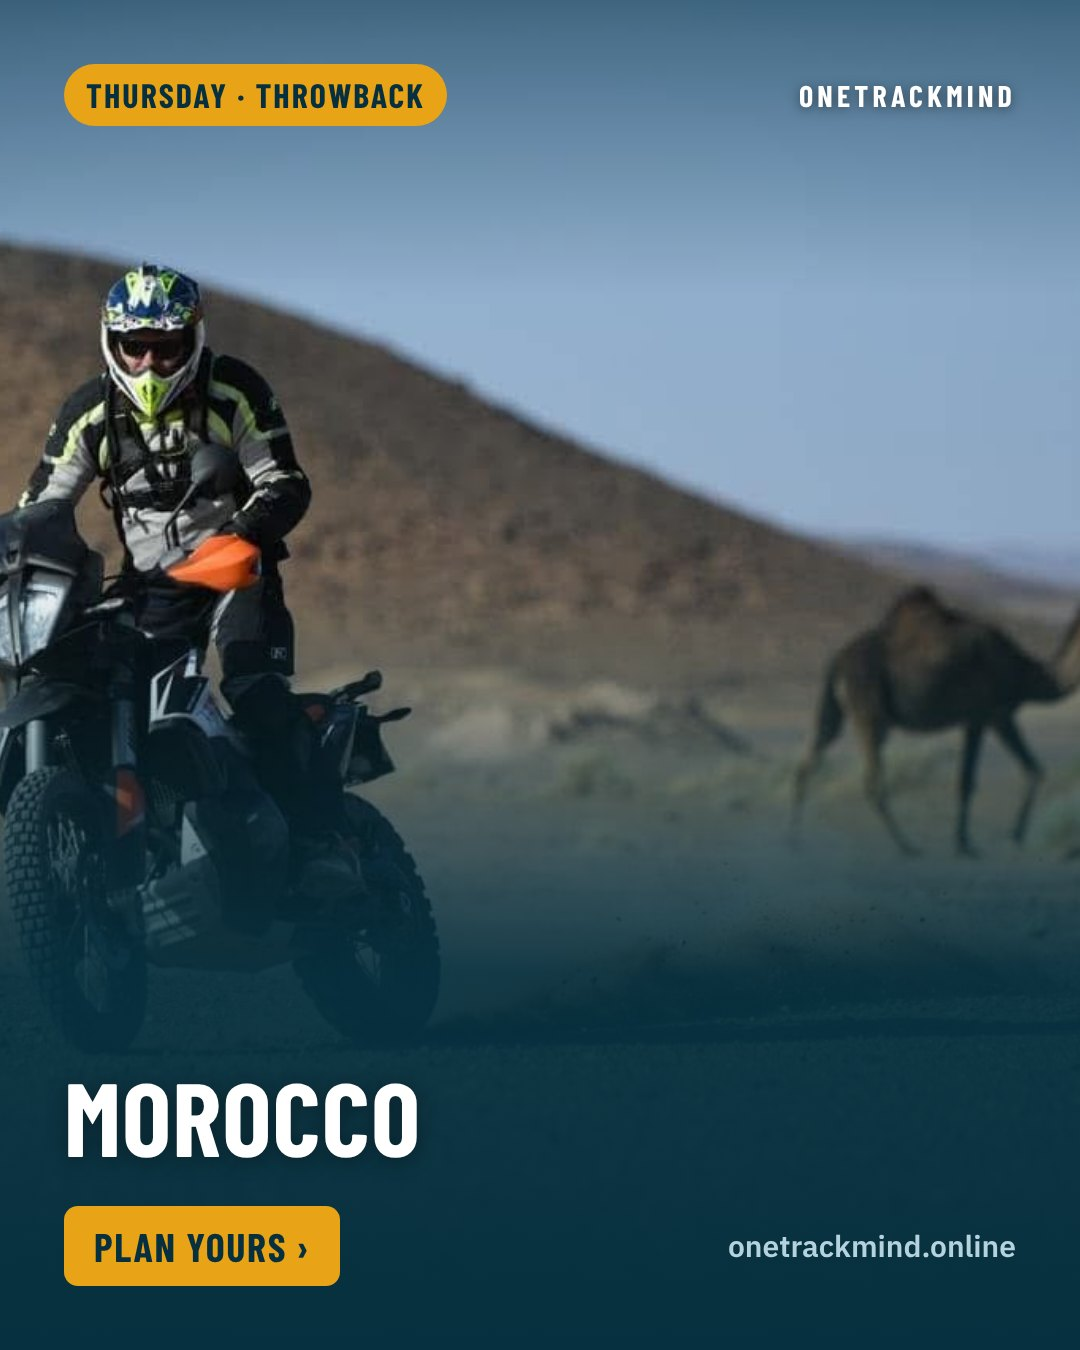
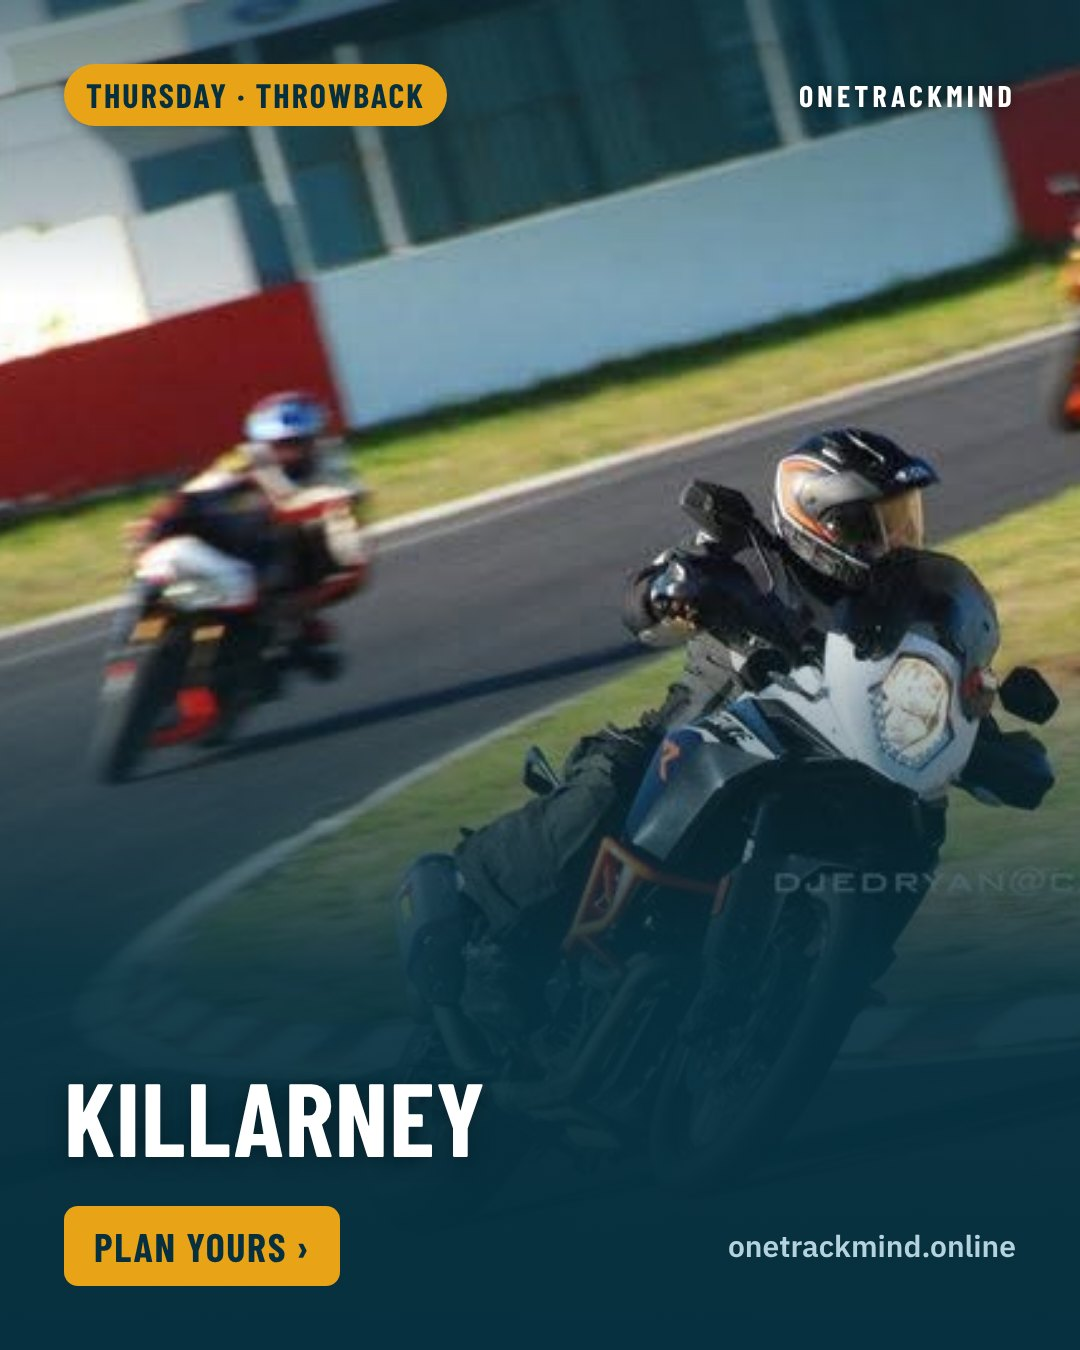
Captions for all founder photos; Friday Garage uses them
- Places from the founder: Sossusvlei, Transkei, Hondeklipbaai, Kamieskroon, Camdeboo, Morocco, Swellendam, Baviaanskloof, Killarney, Namibia
- Garage: Home. Safety first. / Before the Namibia adventure. / Maxwell, in the KTM Cape Town beanie.
- Friday alternates founder garage photo and blog build archive
- Tuesday and Wednesday use the founder's photo of that place when there is one (e.g. Baviaanskloof)
- Kits for 9 and 16 Nov built as previews

Claude-Session: https://claude.ai/code/session_01ByP4zSzh3YPNaF6PQpPMT9

diff --git a/kits/2026-11-16/index.html b/kits/2026-11-16/index.html
@@ -1,0 +1,137 @@
+<!doctype html><html lang="en"><meta charset="utf-8"><meta name="viewport" content="width=device-width,initial-scale=1"><meta name="robots" content="noindex">
+<title>Posts for 16 Nov – 22 Nov</title>
+<style>body{margin:0;background:#06303F;color:#fff;font:16px/1.5 system-ui,-apple-system,Segoe UI,Arial,sans-serif}main{max-width:720px;margin:0 auto;padding:20px 16px 60px}
+h1{font-size:1.5rem;margin:0 0 4px}.note{color:#B5D3DE;font-size:.92rem}.day{background:#0F5874;border-radius:14px;padding:16px;margin:18px 0;border-top:4px solid #E8A317}
+.day h2{margin:0 0 10px;font-size:1.15rem}.day h2 span{color:#E8A317}.pics{display:flex;gap:10px;overflow-x:auto}.pics a{flex:0 0 auto}.pics img{height:260px;border-radius:8px;display:block}
+.cap{background:#06303F;border-radius:10px;padding:12px;white-space:pre-wrap;font-size:.92rem;margin:10px 0 6px}.btn{display:inline-block;background:#E8A317;color:#06303F;border:0;border-radius:8px;padding:9px 14px;font-weight:700;font-size:.9rem;text-decoration:none;cursor:pointer;margin:4px 6px 4px 0}
+.ghost{background:#13617E;color:#fff}.warn{color:#E8A317;font-weight:700}</style>
+<main><h1>Posts for 16 Nov – 22 Nov</h1><p class="note">Tap a picture to open it full size, then save it. Copy the caption, post. Stories: add a link sticker with the link shown.</p>
+<section class="day"><h2><span>Monday 16 Nov</span> · Race Week</h2>
+
+<div class="pics"><a href="1-race-week/post.jpg" target="_blank"><img src="1-race-week/post.jpg" alt="Race Week post.jpg"></a><a href="1-race-week/story.jpg" target="_blank"><img src="1-race-week/story.jpg" alt="Race Week story.jpg"></a></div>
+<div class="cap" id="ig0">What's on this week:
+
+19 Nov – 22 Nov · Macau Grand Prix, Macau (dates to confirm)
+19 Nov – 21 Nov · Las Vegas Grand Prix, Las Vegas
+20 Nov – 22 Nov · MotoGP Portuguese Grand Prix, Portimão
+21 Nov – 29 Nov · Motorcycle Live, Birmingham (dates to confirm)
+
+Going to Macau Grand Prix? The event page has how to watch, getting there and what's worth a detour nearby.
+
+Full calendar, link in bio.
+
+#motorsport #raceweek #onetrackmind</div><button class="btn" data-copy="ig0">Copy Instagram caption</button>
+<div class="cap" id="fb0" hidden>What's on this week:
+
+19 Nov – 22 Nov · Macau Grand Prix, Macau (dates to confirm)
+19 Nov – 21 Nov · Las Vegas Grand Prix, Las Vegas
+20 Nov – 22 Nov · MotoGP Portuguese Grand Prix, Portimão
+21 Nov – 29 Nov · Motorcycle Live, Birmingham (dates to confirm)
+
+Going to Macau Grand Prix? The event page has how to watch, getting there and what's worth a detour nearby.
+
+Full calendar: https://onetrackmind.online/events/</div><button class="btn ghost" data-copy="fb0">Copy Facebook caption</button>
+<p class="note">Story link: <a href="https://onetrackmind.online/events/" style="color:#E8A317">onetrackmind.online/events/</a></p></section><section class="day"><h2><span>Tuesday 17 Nov</span> · Places</h2>
+
+<div class="pics"><a href="2-places/post.jpg" target="_blank"><img src="2-places/post.jpg" alt="Places post.jpg"></a><a href="2-places/story.jpg" target="_blank"><img src="2-places/story.jpg" alt="Places story.jpg"></a></div>
+<div class="cap" id="ig1">The home of Ferrari: museum, factory tour, and test drives in the town.
+
+Maranello is Ferrari's town. The Museo Ferrari has the cars, the trophies and the simulator, the factory tour runs past the Fiorano test track, and outside a dozen shops will rent you a Ferrari for a fifteen-minute drive in the hills.
+
+Tip: The museum shuttle links Maranello and the Enzo Ferrari museum in Modena.
+
+Route there from wherever you are, link in bio.
+
+📍 Maranello, Modena
+
+#roadtrip #placestogo #onetrackmind</div><button class="btn" data-copy="ig1">Copy Instagram caption</button>
+<div class="cap" id="fb1" hidden>The home of Ferrari: museum, factory tour, and test drives in the town.
+
+Maranello is Ferrari's town. The Museo Ferrari has the cars, the trophies and the simulator, the factory tour runs past the Fiorano test track, and outside a dozen shops will rent you a Ferrari for a fifteen-minute drive in the hills.
+
+Tip: The museum shuttle links Maranello and the Enzo Ferrari museum in Modena.
+
+Route there from wherever you are: https://onetrackmind.online/?poi=44.53,10.862&amp;n=Maranello
+
+📍 Maranello, Modena</div><button class="btn ghost" data-copy="fb1">Copy Facebook caption</button>
+<p class="note">Story link: <a href="https://onetrackmind.online/?poi=44.53,10.862&amp;n=Maranello" style="color:#E8A317">onetrackmind.online/?poi=44.53,10.862&amp;n=Maranello</a></p></section><section class="day"><h2><span>Wednesday 18 Nov</span> · Roads</h2>
+
+<div class="pics"><a href="3-roads/post.jpg" target="_blank"><img src="3-roads/post.jpg" alt="Roads post.jpg"></a><a href="3-roads/story.jpg" target="_blank"><img src="3-roads/story.jpg" alt="Roads story.jpg"></a></div>
+<div class="cap" id="ig2">5,609 km on two KTM 790 Dukes: Porsche Museum, Hockenheim, a lap of the Nürburgring, Spa, Aston Martin, Alfaholics, Brooklands, Goodwood Festival of Speed, the Riviera, Lucca, Tavullia, World Ducati Week, Modena and home over the Alps.
+
+5669 km · all tar · 15 days
+
+The whole route, ready for your GPS, link in bio.
+
+📍 Mattighofen
+
+#advrider #roadtrip #onetrackmind</div><button class="btn" data-copy="ig2">Copy Instagram caption</button>
+<div class="cap" id="fb2" hidden>5,609 km on two KTM 790 Dukes: Porsche Museum, Hockenheim, a lap of the Nürburgring, Spa, Aston Martin, Alfaholics, Brooklands, Goodwood Festival of Speed, the Riviera, Lucca, Tavullia, World Ducati Week, Modena and home over the Alps.
+
+5669 km · all tar · 15 days
+
+The whole route, ready for your GPS: https://onetrackmind.online/?pick=eu-road-trip-2018
+
+📍 Mattighofen</div><button class="btn ghost" data-copy="fb2">Copy Facebook caption</button>
+<p class="note">Story link: <a href="https://onetrackmind.online/?pick=eu-road-trip-2018" style="color:#E8A317">onetrackmind.online/?pick=eu-road-trip-2018</a></p></section><section class="day"><h2><span>Thursday 19 Nov</span> · Throwback</h2>
+
+<div class="pics"><a href="4-throwback/post.jpg" target="_blank"><img src="4-throwback/post.jpg" alt="Throwback post.jpg"></a><a href="4-throwback/story.jpg" target="_blank"><img src="4-throwback/story.jpg" alt="Throwback story.jpg"></a></div>
+<div class="cap" id="ig3">Nov 2017.
+
+After our first visit to Ducati in ten years, we explored the back roads to Venice. More dual way single track. Very Italian. Learned to trust the GPS, quite refreshing. Although it does not give you the bigger picture, it allows one to be adventurous without getting completely lost! Love the way the traffic just flows without any hooting or drama. Parking in Venice completely full, so we had to train in.
+
+The full story's on the blog, link in bio.
+
+#throwbackthursday #tbt #onetrackmind</div><button class="btn" data-copy="ig3">Copy Instagram caption</button>
+<div class="cap" id="fb3" hidden>Nov 2017.
+
+After our first visit to Ducati in ten years, we explored the back roads to Venice. More dual way single track. Very Italian. Learned to trust the GPS, quite refreshing. Although it does not give you the bigger picture, it allows one to be adventurous without getting completely lost! Love the way the traffic just flows without any hooting or drama. Parking in Venice completely full, so we had to train in.
+
+The full story's on the blog: https://onetrackmind.online/blog/bologna-ducati-venice/</div><button class="btn ghost" data-copy="fb3">Copy Facebook caption</button>
+<p class="note">Story link: <a href="https://onetrackmind.online/blog/bologna-ducati-venice/" style="color:#E8A317">onetrackmind.online/blog/bologna-ducati-venice/</a></p></section><section class="day"><h2><span>Friday 20 Nov</span> · The Garage</h2>
+
+<div class="pics"><a href="5-garage/post.jpg" target="_blank"><img src="5-garage/post.jpg" alt="The Garage post.jpg"></a><a href="5-garage/story.jpg" target="_blank"><img src="5-garage/story.jpg" alt="The Garage story.jpg"></a></div>
+<div class="cap" id="ig4">Maxwell, in the KTM Cape Town beanie.
+
+#thegarage #onetrackmind</div><button class="btn" data-copy="ig4">Copy Instagram caption</button>
+<div class="cap" id="fb4" hidden>Maxwell, in the KTM Cape Town beanie.</div><button class="btn ghost" data-copy="fb4">Copy Facebook caption</button>
+<p class="note">Story link: <a href="https://onetrackmind.online" style="color:#E8A317">onetrackmind.online</a></p></section><section class="day"><h2><span>Saturday 21 Nov</span> · Breakfast Run</h2>
+<p class="warn">Needs your photos. Send them to Claude with the place, town and what you drove.</p>
+<div class="pics"><a href="6-breakfast-run/post.jpg" target="_blank"><img src="6-breakfast-run/post.jpg" alt="Breakfast Run post.jpg"></a><a href="6-breakfast-run/story.jpg" target="_blank"><img src="6-breakfast-run/story.jpg" alt="Breakfast Run story.jpg"></a></div>
+<div class="cap" id="ig5">Breakfast Run: [Restaurant], [Town].
+
+Took the [What I drove or rode].
+Ordered: [what you ate].
+[One line: would you go back, and why.]
+
+Route there from wherever you are, link in bio.
+
+📍 [Restaurant], [Town]
+
+#breakfastrun #saturdayride #onetrackmind</div><button class="btn" data-copy="ig5">Copy Instagram caption</button>
+<div class="cap" id="fb5" hidden>Breakfast Run: [Restaurant], [Town].
+
+Took the [What I drove or rode].
+Ordered: [what you ate].
+[One line: would you go back, and why.]
+
+Route there from wherever you are: https://onetrackmind.online
+
+📍 [Restaurant], [Town]</div><button class="btn ghost" data-copy="fb5">Copy Facebook caption</button>
+<p class="note">Story link: <a href="https://onetrackmind.online" style="color:#E8A317">onetrackmind.online</a></p></section><section class="day"><h2><span>Sunday 22 Nov</span> · Race Day</h2>
+
+<div class="pics"><a href="7-race-day/post.jpg" target="_blank"><img src="7-race-day/post.jpg" alt="Race Day post.jpg"></a><a href="7-race-day/story.jpg" target="_blank"><img src="7-race-day/story.jpg" alt="Race Day story.jpg"></a></div>
+<div class="cap" id="ig6">Racing today:
+
+MotoGP Portuguese Grand Prix, Portimão · watch on MotoGP VideoPass
+
+Where to watch and results after, link in bio.
+
+#raceday #motorsport #onetrackmind</div><button class="btn" data-copy="ig6">Copy Instagram caption</button>
+<div class="cap" id="fb6" hidden>Racing today:
+
+MotoGP Portuguese Grand Prix, Portimão · watch on MotoGP VideoPass
+
+Where to watch and results after: https://onetrackmind.online/events/</div><button class="btn ghost" data-copy="fb6">Copy Facebook caption</button>
+<p class="note">Story link: <a href="https://onetrackmind.online/events/" style="color:#E8A317">onetrackmind.online/events/</a></p></section>
+</main><script>document.addEventListener("click",async e=>{const b=e.target.closest("[data-copy]");if(!b)return;const t=document.getElementById(b.dataset.copy).textContent;try{await navigator.clipboard.writeText(t);b.textContent="Copied";}catch(err){const r=document.createRange();const el=document.getElementById(b.dataset.copy);el.hidden=false;r.selectNodeContents(el);getSelection().removeAllRanges();getSelection().addRange(r);b.textContent="Selected, tap Copy";}});</script></html>

diff --git a/kits/2026-11-09/index.html b/kits/2026-11-09/index.html
@@ -74,10 +74,14 @@ The whole route, ready for your GPS: https://onetrackmind.online/?pick=speedweek
 <p class="note">Story link: <a href="https://onetrackmind.online/?pick=speedweek-hakskeenpan" style="color:#E8A317">onetrackmind.online/?pick=speedweek-hakskeenpan</a></p></section><section class="day"><h2><span>Thursday 12 Nov</span> · Throwback</h2>
 
 <div class="pics"><a href="4-throwback/post.jpg" target="_blank"><img src="4-throwback/post.jpg" alt="Throwback post.jpg"></a><a href="4-throwback/story.jpg" target="_blank"><img src="4-throwback/story.jpg" alt="Throwback story.jpg"></a></div>
-<div class="cap" id="ig3">Morocco.
+<div class="cap" id="ig3">Killarney.
+
+📍 Killarney Raceway, Cape Town
 
 #throwbackthursday #tbt #onetrackmind</div><button class="btn" data-copy="ig3">Copy Instagram caption</button>
-<div class="cap" id="fb3" hidden>Morocco.</div><button class="btn ghost" data-copy="fb3">Copy Facebook caption</button>
+<div class="cap" id="fb3" hidden>Killarney.
+
+📍 Killarney Raceway, Cape Town</div><button class="btn ghost" data-copy="fb3">Copy Facebook caption</button>
 <p class="note">Story link: <a href="https://onetrackmind.online" style="color:#E8A317">onetrackmind.online</a></p></section><section class="day"><h2><span>Friday 13 Nov</span> · The Garage</h2>
 <p class="note">No garage photo this week, so this one is from the archive. Send a photo to use your own.</p>
 <div class="pics"><a href="5-garage/post.jpg" target="_blank"><img src="5-garage/post.jpg" alt="The Garage post.jpg"></a><a href="5-garage/story.jpg" target="_blank"><img src="5-garage/story.jpg" alt="The Garage story.jpg"></a></div>
